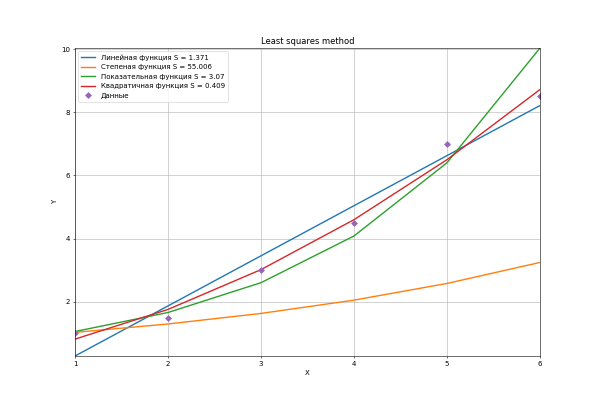
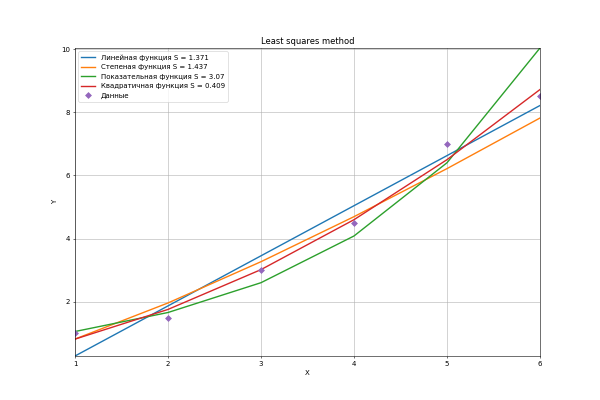
Lab_1 is done!

diff --git a/Lab_1.py b/Lab_1.py
@@ -78,7 +78,7 @@ def degree_fun(list_x, list_y, plt, legend):
     if determine != 0:
         a = determ2([[sum_x_y, sum_x], [sum_y, line]]) / determine
         b = math.exp(round(determ2([[sum_x_2, sum_x_y], [sum_x, sum_y]]) / determine, 4))
-        y = [b * pow(a, i) for i in list_x]  # f(x[i])
+        y = [b * i**a for i in list_x]  # f(x[i])
         s = [(list_y[i] - y[i]) ** 2 for i in range(line)]  # (log(y[i]) - f(x[i])) ** 2
         S = round(sum(s), 3)
         legend.append(f"Степеная функция S = {S}")
@@ -97,11 +97,14 @@ def exp_fun(list_x, list_y, plt, legend):
     determine = determ2([[sum_x_2, sum_x], [sum_x, line]])
     if determine != 0:
         a = round(determ2([[sum_x_y, sum_x], [sum_y, line]]) / determine, 4)
+
         b = math.exp(round(determ2([[sum_x_2, sum_x_y], [sum_x, sum_y]]) / determine, 4))
 
-        y = [b * pow(math.exp(1), a * i) for i in list_x]  # f(x[i])
+        y = [b * math.exp(a * i) for i in list_x]  # f(x[i])
         s = [(list_y[i] - y[i]) ** 2 for i in range(line)]  # (log(y[i]) - f(x[i])) ** 2
+
         S = round(sum(s), 3)
+
         legend.append(f"Показательная функция S = {S}")
         plt.plot(list_x, y, linewidth=2)
         return S
@@ -142,10 +145,11 @@ plt.title("Least squares method")
 plt.xlabel("X")
 plt.ylabel("Y")
 plt.autoscale(tight=True)
-n = int(input("Введите количество точек: "))
+n = 6
 legend = []
 list_x = [i for i in range(1, n + 1)]
-list_y = list(map(float, input("Введите значение вектора y: ").split()))
+list_y = list(map(float, (1, 1.5, 3, 4.5, 7, 8.5)))
+# list(map(float, input("Введите значение вектора y: ").split()))
 line_fun(list_x, list_y, plt, legend)
 degree_fun(list_x, list_y, plt, legend)
 exp_fun(list_x, list_y, plt, legend)
